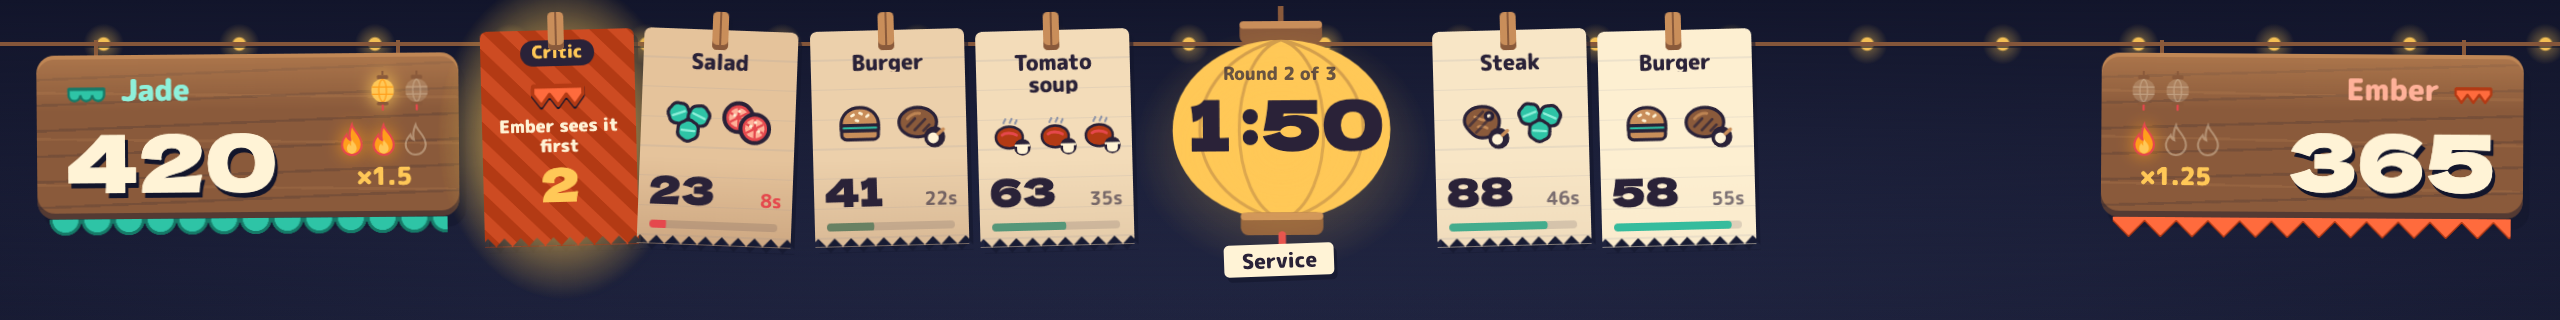
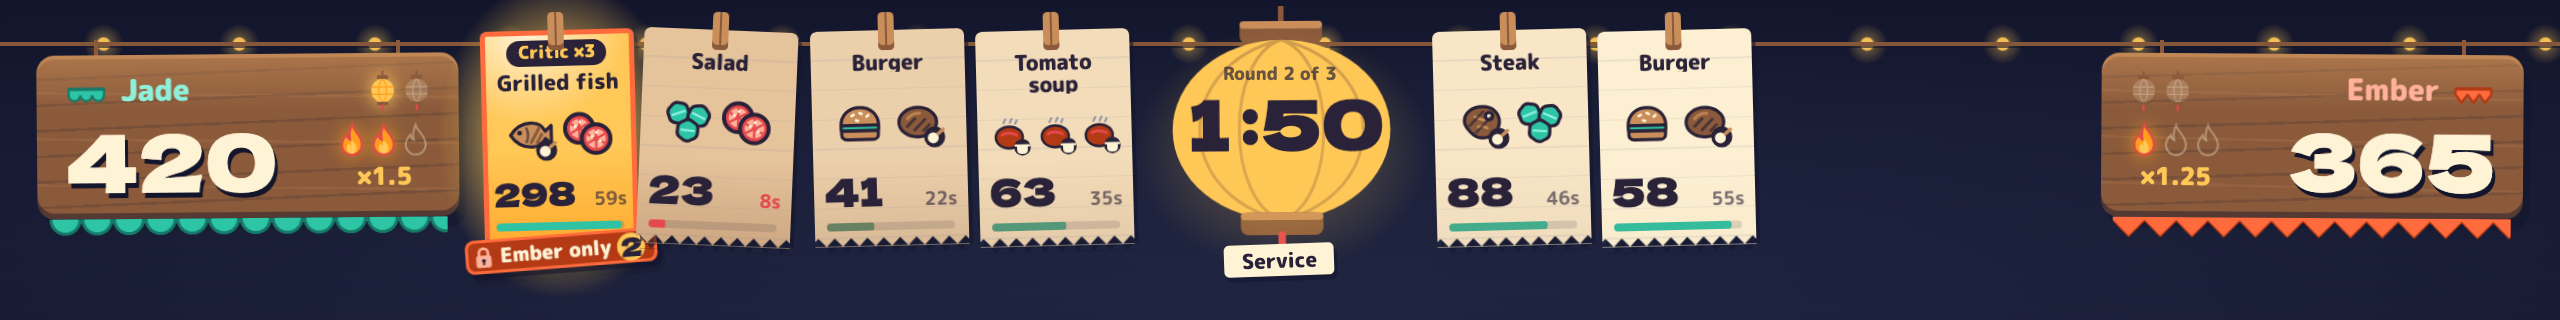
fix(client): Critic is face-up for everyone with a crew lock tag during its early window
The trailing crew's head start only works on a shared screen if both crews can read
the order; the lock tag in that crew's colour counts down until everyone may serve it.

Claude-Session: https://claude.ai/code/session_01G6C8EvigXXCtvDT4nzGJHd

Changed region(s): [[0.1562, 0.0938, 0.3125, 0.875], [0.2812, 0.375, 0.3125, 0.4062]]

diff --git a/apps/client/src/hud/slips.ts b/apps/client/src/hud/slips.ts
@@ -1,6 +1,6 @@
 import type { MatchState, TeamId, Ticket } from '@line-war/sim';
 import { criticExclusiveSeconds, sortTickets, ticketTimeLeft, ticketValue } from '../render/format';
-import { crewMark, foodIcon } from './icons';
+import { foodIcon, LOCK } from './icons';
 import { crewName, formatMult, formatScore } from './text';
 
 /** Why a slip left the line. 'cleared' = removed without an event (new round). */
@@ -18,10 +18,11 @@ interface SlipView {
   el: HTMLElement;
   value: HTMLElement;
   secs: HTMLElement;
-  backCount: HTMLElement | null;
+  /** Critic only: the lock tag shown while one crew has it exclusively. */
+  lock: { root: HTMLElement; name: HTMLElement; count: HTMLElement } | null;
   slot: number;
   /** Last values written to the DOM, so frames only touch what changed. */
-  shown: { value: number; secs: number; age: number; urgent: boolean; facedown: boolean | null };
+  shown: { value: number; secs: number; age: number; urgent: boolean; locked: boolean | null; count: string };
   leaveAt: number | null;
 }
 
@@ -129,24 +130,29 @@ export class TicketLine {
     front.append(foot, el('div', 'lw-slip-fresh'));
     card.append(front);
 
-    let backCount: HTMLElement | null = null;
-    if (t.isCritic) {
-      const back = el('div', 'lw-slip-face lw-slip-back');
-      const mark = el('div', 'lw-slip-mark');
-      backCount = el('div', 'lw-slip-count');
-      back.append(el('div', 'lw-slip-critic', 'Critic'), mark, el('div', 'lw-slip-first'), backCount);
-      card.append(back);
-    }
     swing.append(pin, card);
+    // The Critic is face-up for everyone; while one crew has it exclusively a lock tag in that
+    // crew's colour hangs under it with the seconds until everyone may serve it.
+    let lock: SlipView['lock'] = null;
+    if (t.isCritic) {
+      const root = el('div', 'lw-slip-lock');
+      const icon = el('span', 'lw-slip-lock-icon');
+      icon.innerHTML = LOCK;
+      const lockName = el('span', 'lw-slip-lock-name');
+      const count = el('span', 'lw-slip-lock-count');
+      root.append(icon, lockName, count);
+      swing.append(root);
+      lock = { root, name: lockName, count };
+    }
     slip.append(swing);
     return {
       ticket: t,
       el: slip,
       value,
       secs,
-      backCount,
+      lock,
       slot: -1,
-      shown: { value: -1, secs: -1, age: -1, urgent: false, facedown: null },
+      shown: { value: -1, secs: -1, age: -1, urgent: false, locked: null, count: '' },
       leaveAt: null,
     };
   }
@@ -187,23 +193,25 @@ export class TicketLine {
       v.secs.textContent = `${secs}s`;
     }
     if (t.isCritic) {
-      const facedown = t.visibleTo !== null;
-      if (facedown !== sh.facedown) {
-        sh.facedown = facedown;
-        v.el.classList.toggle('lw-slip--facedown', facedown);
-        v.el.dataset.facedown = String(facedown);
-        if (facedown && t.visibleTo !== null) {
-          const team = t.visibleTo;
-          v.el.dataset.team = String(team);
-          v.el.querySelector('.lw-slip-mark')!.innerHTML = crewMark(team);
-          v.el.querySelector('.lw-slip-first')!.textContent = `${crewName(team)} sees it first`;
-        }
+      const locked = t.visibleTo !== null;
+      if (locked !== sh.locked) {
+        sh.locked = locked;
+        v.el.classList.toggle('lw-slip--locked', locked);
+        v.el.dataset.locked = String(locked);
+        if (t.visibleTo !== null) {
+          v.el.dataset.lockTeam = String(t.visibleTo);
+          v.lock!.name.textContent = `${crewName(t.visibleTo)} only`;
+        } else delete v.el.dataset.lockTeam;
         v.el.querySelector('.lw-slip-critic')!.textContent = `Critic ${formatMult(s.config.tuning.criticMultiplier)}`;
       }
-      if (facedown && v.backCount) {
+      if (locked && v.lock) {
         const left = criticExclusiveSeconds(s, t);
         const txt = left === null || !Number.isFinite(left) ? '' : String(Math.ceil(left));
-        if (v.backCount.textContent !== txt) v.backCount.textContent = txt;
+        if (txt !== sh.count) {
+          sh.count = txt;
+          v.lock.count.textContent = txt;
+          v.lock.root.setAttribute('aria-label', `${v.lock.name.textContent}${txt ? ` for ${txt} more seconds` : ''}`);
+        }
       }
     }
   }
@@ -217,7 +225,7 @@ export class TicketLine {
     v.leaveAt = now + (this.reducedMotion() ? REDUCED_EXIT_MS : EXIT_MS[reason]);
     v.el.dataset.state = reason;
     v.el.classList.add(`lw-slip--${reason}`);
-    v.el.classList.remove('lw-slip--facedown');
+    v.el.classList.remove('lw-slip--locked');
     v.el.setAttribute('aria-hidden', 'true');
     if (served) {
       v.el.dataset.team = String(served.team);

diff --git a/apps/client/src/hud/hud.css b/apps/client/src/hud/hud.css
@@ -330,7 +330,7 @@
 .lw-slip--urgent .lw-slip-swing { animation: lw-shiver 0.45s ease-in-out infinite alternate; }
 @keyframes lw-shiver { from { transform: rotate(-3deg); } to { transform: rotate(3deg); } }
 
-/* The Critic: gold, glowing, and face-down while only one crew may see it. */
+/* The Critic: gold and glowing, with a lock tag while only one crew may serve it. */
 .lw-slip--critic .lw-slip-front {
   background-color: var(--lantern);
   background-image: radial-gradient(120% 80% at 30% 0%, var(--paper) 0%, transparent 55%), linear-gradient(to bottom, transparent 55%, color-mix(in srgb, var(--lantern-hot) 70%, transparent));
@@ -357,23 +357,42 @@
   line-height: 1.3;
   white-space: nowrap;
 }
-.lw-slip-back {
+.lw-slip[data-lock-team='0'] { --lock: var(--jade); --lock-dark: var(--jade-dark); --lock-light: var(--jade-light); }
+.lw-slip[data-lock-team='1'] { --lock: var(--ember); --lock-dark: var(--ember-dark); --lock-light: var(--ember-light); }
+/* Lock tag: hangs under a face-up Critic while only the trailing crew may serve it. */
+.lw-slip-lock {
   position: absolute;
-  inset: 0;
-  transform: rotateY(180deg);
+  z-index: 2;
+  left: 50%;
+  top: calc(100% - var(--s) * 0.45);
+  display: none;
   align-items: center;
-  justify-content: flex-start;
-  gap: calc(var(--s) * 0.2);
+  gap: calc(var(--s) * 0.25);
+  padding: calc(var(--s) * 0.12) calc(var(--s) * 0.45) calc(var(--s) * 0.12) calc(var(--s) * 0.32);
+  border-radius: calc(var(--s) * 0.35);
+  background: var(--lock-dark);
+  box-shadow: inset 0 0 0 calc(var(--s) * 0.12) var(--lock), calc(var(--s) * 0.12) calc(var(--s) * 0.2) 0 color-mix(in srgb, var(--night-deep) 60%, transparent);
   color: var(--paper);
-  text-align: center;
-  background-color: var(--crew-dark);
-  background-image: repeating-linear-gradient(45deg, transparent 0 calc(var(--s) * 0.5), color-mix(in srgb, var(--crew) 35%, transparent) calc(var(--s) * 0.5) calc(var(--s) * 1));
+  white-space: nowrap;
+  transform: translateX(-50%) rotate(-3deg);
+  animation: lw-lock-in 0.35s cubic-bezier(0.2, 1.6, 0.4, 1) both;
 }
-.lw-slip-back .lw-slip-critic { margin-bottom: 0; }
-.lw-slip-mark svg { display: block; width: calc(var(--s) * 2.4); height: auto; filter: drop-shadow(0 1px 0 var(--night-deep)); }
-.lw-slip-first { font-weight: 800; font-size: calc(var(--s) * 0.68); line-height: 1.15; }
-.lw-slip-count { font-family: var(--font-display); font-size: calc(var(--s) * 1.8); line-height: 1; color: var(--lantern); }
-.lw-slip--facedown .lw-slip-card { transform: rotateY(180deg); }
+@keyframes lw-lock-in { from { opacity: 0; transform: translateX(-50%) rotate(-12deg) scale(1.8); } }
+.lw-slip--locked .lw-slip-lock { display: flex; }
+.lw-slip-lock-icon { display: block; width: calc(var(--s) * 0.8); color: var(--lock-light); }
+.lw-slip-lock-icon svg { display: block; width: 100%; height: auto; }
+.lw-slip-lock-name { font-weight: 800; font-size: calc(var(--s) * 0.78); line-height: 1.2; }
+.lw-slip-lock-count {
+  min-width: calc(var(--s) * 1.1);
+  font-family: var(--font-display);
+  font-size: calc(var(--s) * 1);
+  line-height: 1.1;
+  text-align: center;
+  color: var(--ink);
+  background: var(--lantern);
+  border-radius: 99px;
+}
+.lw-slip--locked .lw-slip-front { box-shadow: inset 0 0 0 calc(var(--s) * 0.2) var(--lock); }
 
 /* Exits */
 .lw-slip--served .lw-slip-swing { animation: lw-slip-served 1.3s cubic-bezier(0.5, 0, 0.6, 1) forwards; }

diff --git a/apps/client/test/hud/hud.test.ts b/apps/client/test/hud/hud.test.ts
@@ -136,28 +136,35 @@ describe('HUD ticket line', () => {
     expect(slip(b.id)).toBeNull();
   });
 
-  it('draws a one-crew Critic face down with that crew and a countdown, then reveals it in gold', () => {
+  it('shows a one-crew Critic face-up with a lock tag in that crew colour, then unlocks it', () => {
     const s = at(match(), 120);
-    const t = ticket(s, 'steak', { isCritic: true, baseValue: 300, visibleTo: 1, revealAllAtTick: s.tick + secondsToTicks(s.config, 3) });
+    const t = ticket(s, 'steak', { isCritic: true, baseValue: 300, visibleTo: 0, revealAllAtTick: s.tick + secondsToTicks(s.config, 3) });
     const { frame, slip } = setup(s);
     frame();
     const el = slip(t.id)!;
     expect(el.classList.contains('lw-slip--critic')).toBe(true);
-    expect(el.dataset.facedown).toBe('true');
-    expect(el.classList.contains('lw-slip--facedown')).toBe(true);
-    expect(el.querySelector('.lw-slip-first')!.textContent).toBe('Ember sees it first');
-    expect(el.querySelector('.lw-slip-count')!.textContent).toBe('3');
-    expect(el.querySelector('.lw-slip-mark svg')).not.toBeNull();
+    // Face-up for everyone: the recipe is readable during the early window.
+    expect(el.querySelector('.lw-slip-name')!.textContent).toBe('Steak');
+    expect(el.querySelectorAll('.lw-slip-front .lw-food')).toHaveLength(2);
+    expect(el.querySelector('.lw-slip-front .lw-slip-critic')!.textContent).toBe('Critic ×3');
+    expect(el.dataset.locked).toBe('true');
+    expect(el.dataset.lockTeam).toBe('0');
+    expect(el.classList.contains('lw-slip--locked')).toBe(true);
+    const lock = el.querySelector('.lw-slip-lock')!;
+    expect(lock.querySelector('.lw-slip-lock-name')!.textContent).toBe('Jade only');
+    expect(lock.querySelector('.lw-slip-lock-count')!.textContent).toBe('3');
+    expect(lock.querySelector('svg')).not.toBeNull();
     s.tick += secondsToTicks(s.config, 1.5);
     frame();
-    expect(el.querySelector('.lw-slip-count')!.textContent).toBe('2');
+    expect(lock.querySelector('.lw-slip-lock-count')!.textContent).toBe('2');
     t.visibleTo = null;
     t.revealAllAtTick = null;
     frame();
-    expect(el.dataset.facedown).toBe('false');
-    expect(el.classList.contains('lw-slip--facedown')).toBe(false);
+    expect(el.dataset.locked).toBe('false');
+    expect(el.dataset.lockTeam).toBeUndefined();
+    expect(el.classList.contains('lw-slip--locked')).toBe(false);
     expect(el.querySelector('.lw-slip-front .lw-slip-critic')!.textContent).toBe('Critic ×3');
-    expect(slip(t.id)).toBe(el); // flipped in place, not rebuilt
+    expect(slip(t.id)).toBe(el); // unlocked in place, not rebuilt
   });
 });
 

diff --git a/apps/client/src/hud/icons.ts b/apps/client/src/hud/icons.ts
@@ -122,3 +122,6 @@ export const CLOCK_LANTERN = `<svg class="lw-clock-svg" viewBox="0 0 120 132" ar
 <rect x="38" y="110" width="44" height="12" rx="4" fill="${P.bambooDark}"/><rect x="38" y="110" width="44" height="4" rx="2" fill="${P.bamboo}"/>
 <path d="M60 122v8" stroke="${P.danger}" stroke-width="4" stroke-linecap="round"/>
 </svg>`;
+
+/** Padlock for the Critic's one-crew window. Drawn in currentColor so the crew colour comes from CSS. */
+export const LOCK = `<svg viewBox="0 0 16 18" aria-hidden="true"><path d="M4.5 8V5.5a3.5 3.5 0 0 1 7 0V8" fill="none" stroke="currentColor" stroke-width="2.2" stroke-linecap="round"/><rect x="2" y="7.5" width="12" height="9.5" rx="2.2" fill="currentColor"/><circle cx="8" cy="11.6" r="1.5" fill="${P.ink}"/><path d="M8 12.4v2" stroke="${P.ink}" stroke-width="1.4" stroke-linecap="round"/></svg>`;
